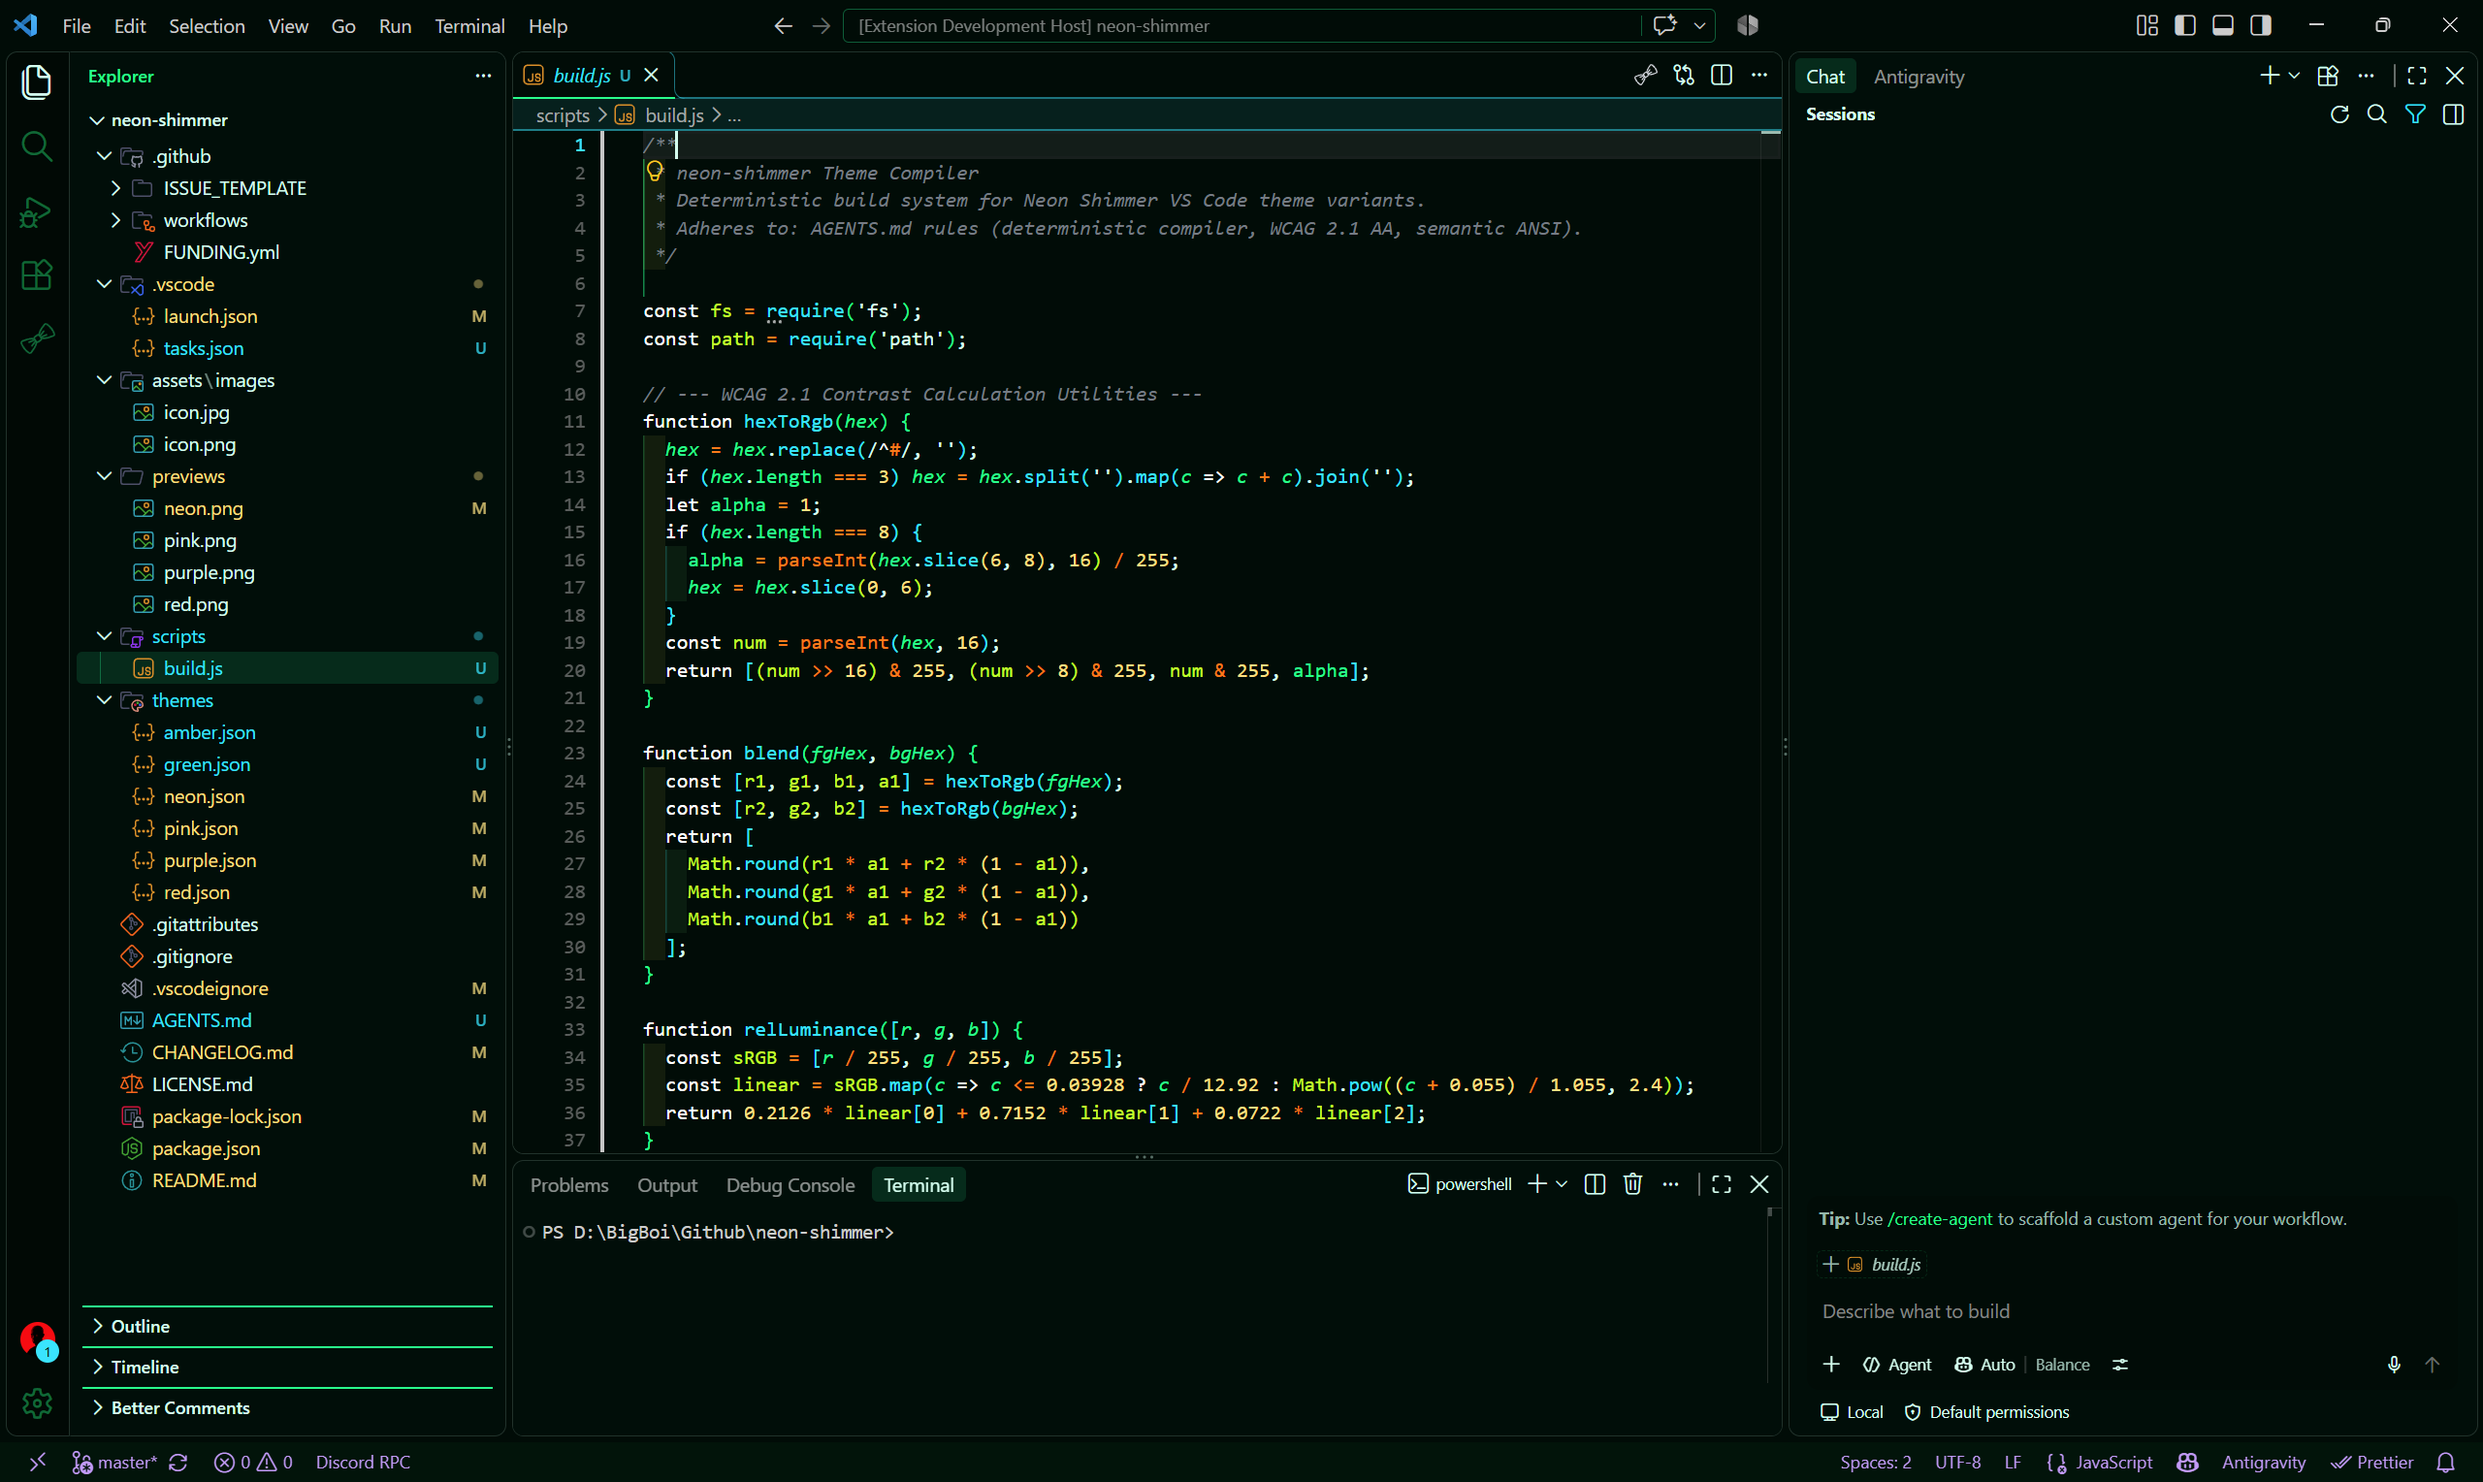
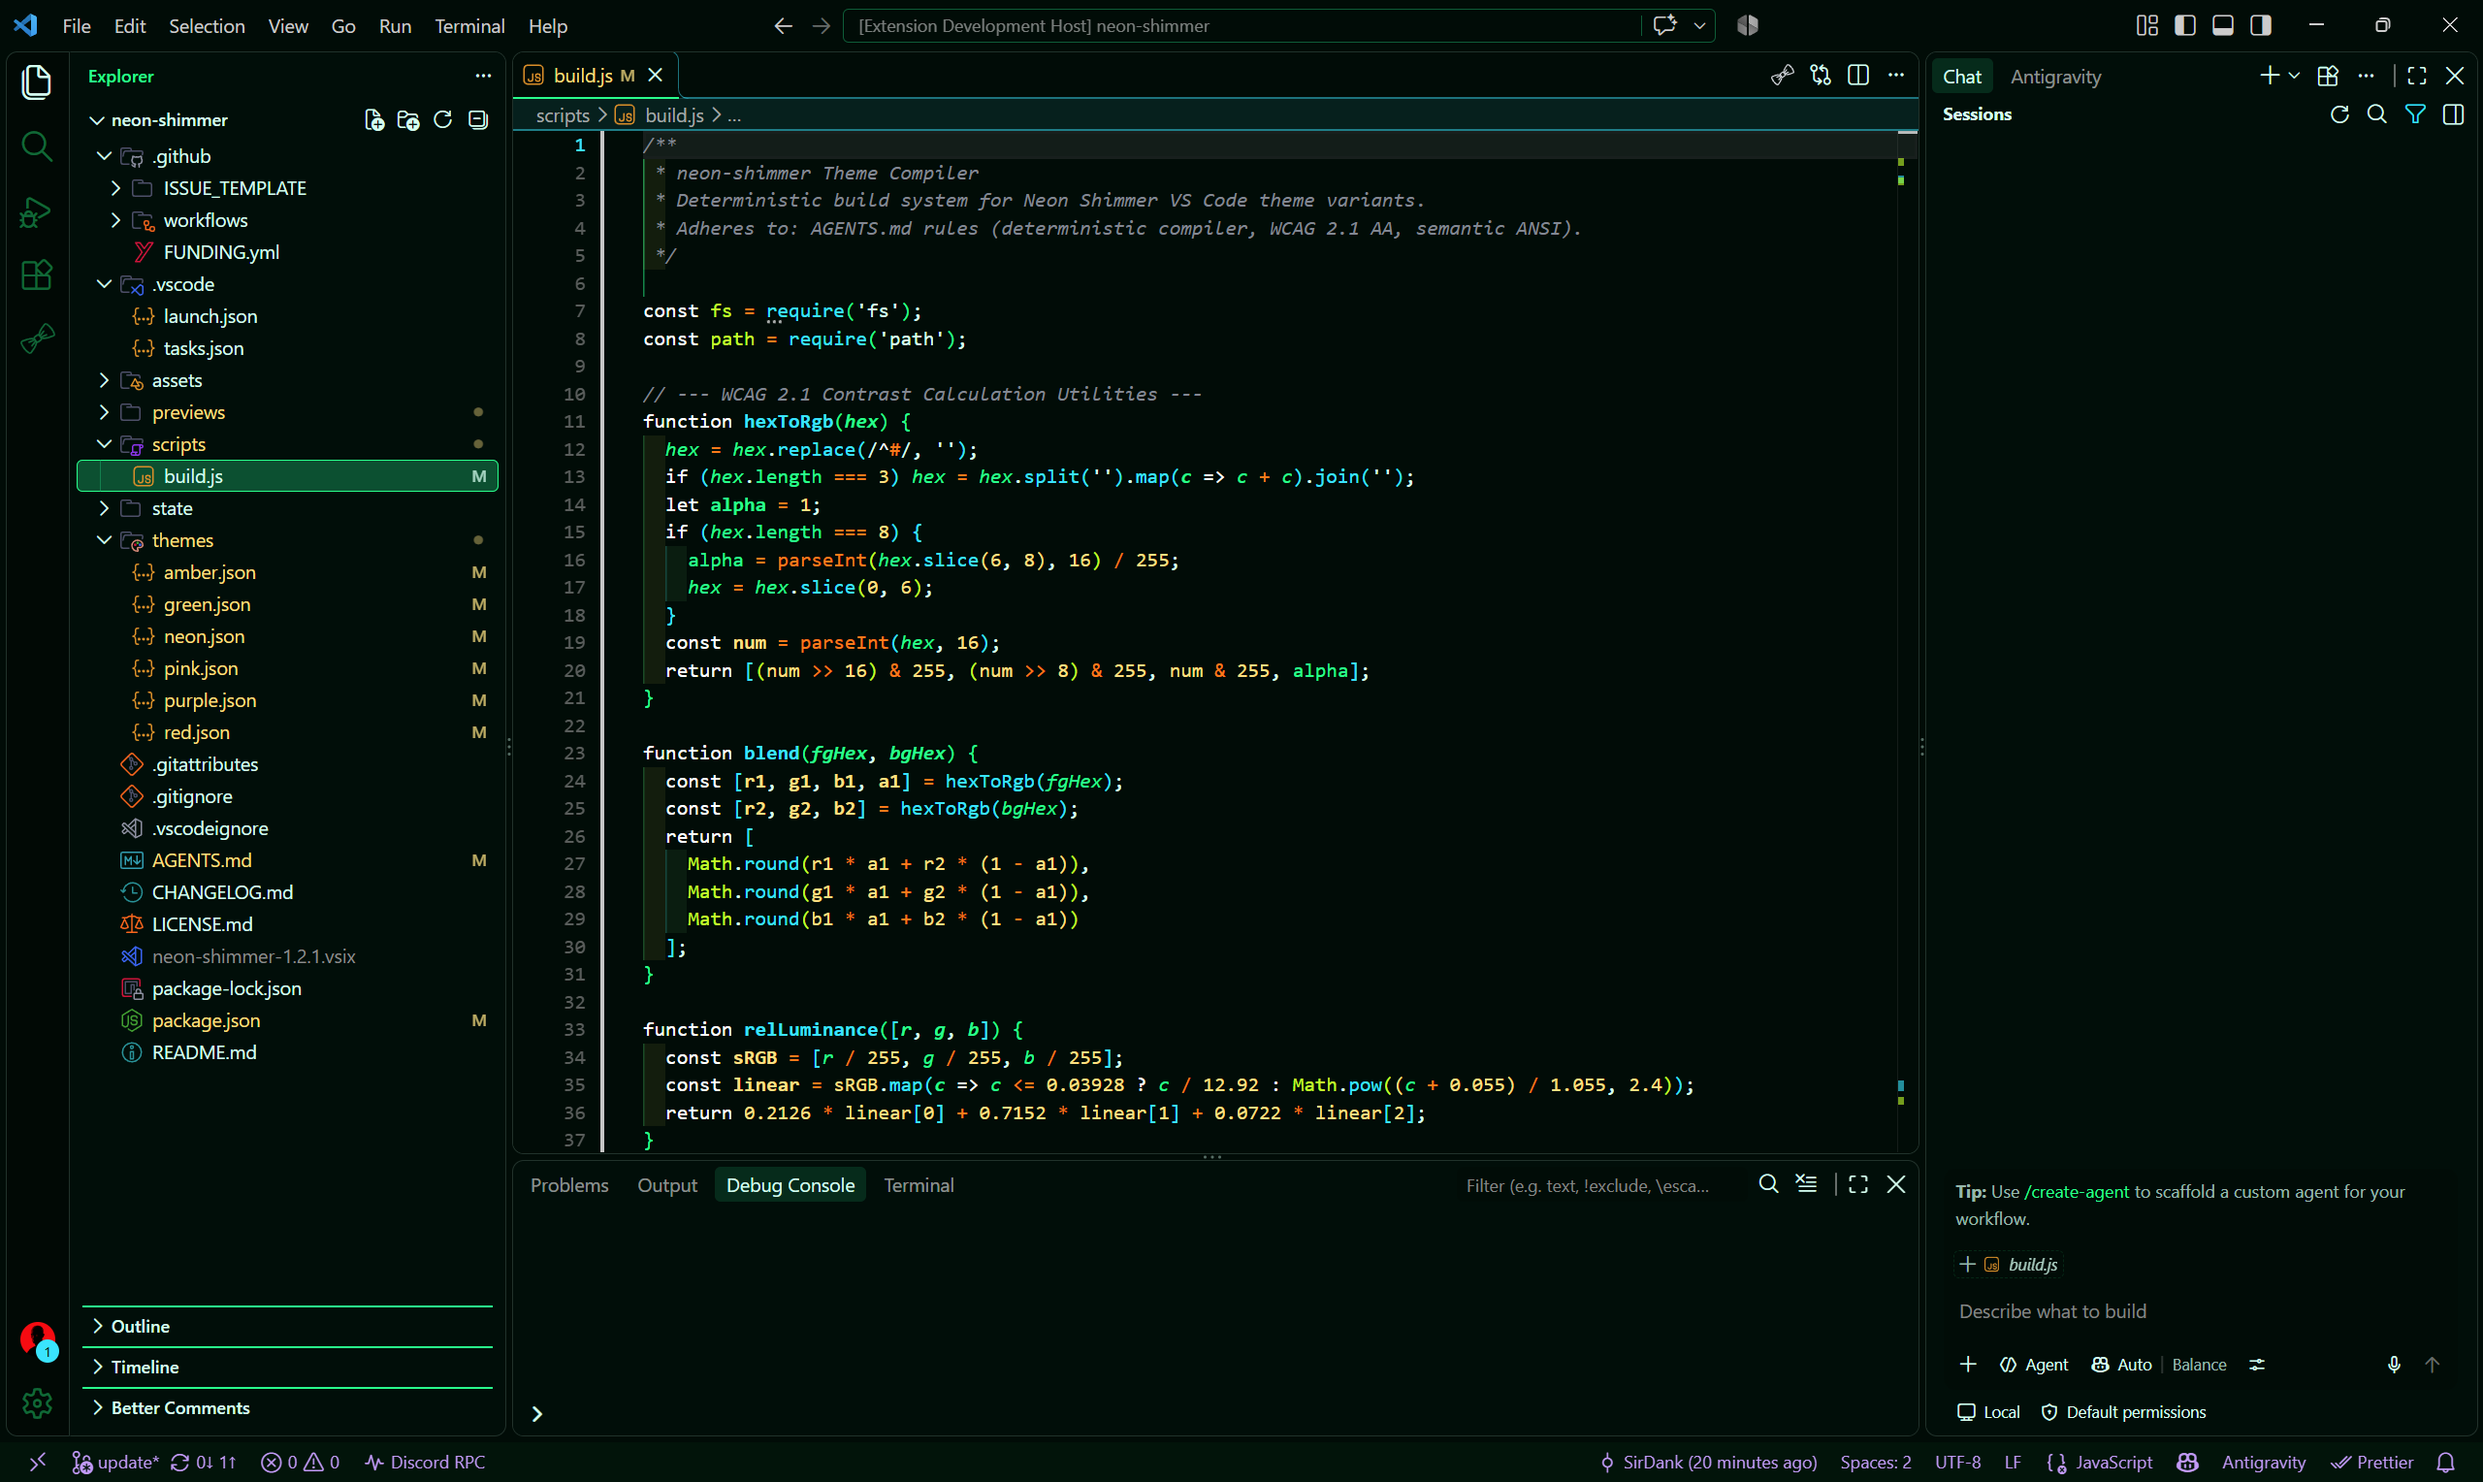
Expand theme support for modern VS Code
Add schema declarations, semantic token mappings, modern diff and window colors, and marketplace metadata across the theme suite. Refresh the theme previews.

diff --git a/scripts/build.js b/scripts/build.js
@@ -91,6 +91,7 @@ function getModernSurfaces(palette) {
   const type = palette.slots.type;
   const fn = palette.slots.function;
   const op = palette.slots.operator;
+  const comment = palette.slots.comment;
   const brackets = palette.brackets;
 
   return {
@@ -141,10 +142,19 @@ function getModernSurfaces(palette) {
     'sideBarStickyScroll.border': sideBarBorder,
     'sideBarStickyScroll.shadow': withAlpha(bg, '80'),
 
-    // multiDiffEditor (VS Code 1.86+)
+    // multiDiffEditor & modern diff regions (VS Code 1.86+)
     'multiDiffEditor.headerBackground': sideBarBg,
     'multiDiffEditor.background': bg,
     'multiDiffEditor.border': sideBarBorder,
+    'diffEditor.unchangedRegionBackground': sideBarBg,
+    'diffEditor.unchangedRegionForeground': comment,
+    'diffEditor.unchangedCodeBackground': bg,
+
+    // Window borders & Profile badge (VS Code 1.75+)
+    'window.activeBorder': withAlpha(border, '80'),
+    'window.inactiveBorder': withAlpha(border, '33'),
+    'profileBadge.background': actBadgeBg,
+    'profileBadge.foreground': '#ffffff',
 
     // symbolIcon suite (Breadcrumbs, Quick Pick, Autocomplete)
     'symbolIcon.arrayForeground': constant,
@@ -2805,11 +2815,17 @@ function buildVariant(variantId) {
   const palette = PALETTES[variantId];
   if (!palette) throw new Error('Unknown variant: ' + variantId);
 
-  // 1. Semantic Token Colors
+  // 1. Semantic Token Colors (Official VS Code Semantic Highlighting best practices)
   const semanticTokenColors = {
     enumMember: { foreground: palette.slots.operator },
     'variable.constant': { foreground: palette.slots.constant },
-    'variable.defaultLibrary': { foreground: palette.slots.type }
+    'variable.defaultLibrary': { foreground: palette.slots.type },
+    'variable.readonly': { foreground: palette.slots.constant },
+    'property.readonly': { foreground: palette.slots.constant },
+    parameter: { foreground: palette.slots.primaryVar, italic: true },
+    typeParameter: { foreground: palette.slots.type, italic: true },
+    concept: { foreground: palette.slots.type },
+    '*.declaration': { bold: true }
   };
 
   // 2. TextMate Token Colors
@@ -2848,6 +2864,7 @@ function buildVariant(variantId) {
   Object.assign(colors, modern);
 
   return {
+    $schema: 'vscode://schemas/color-theme',
     name: palette.name,
     type: 'dark',
     semanticHighlighting: true,

diff --git a/AGENTS.md b/AGENTS.md
@@ -37,3 +37,9 @@ This repository maintains the **Neon Shimmer** theme suite for VS Code. All agen
 ## 5. Clean Repository Paths & Zero PII
 - **Never** embed absolute local file paths, machine-specific paths, usernames, or PII into repository source files, scripts, comments, or generated outputs.
 - Always use relative paths from the workspace root (e.g. `themes/`, `scripts/`, `assets/`).
+
+## 6. Official VS Code Theme Best Practices
+- **JSON Schema Validation**: Every generated theme JSON must declare `"$schema": "vscode://schemas/color-theme"`.
+- **Workspace Trust**: Declare `"capabilities": { "untrustedWorkspaces": { "supported": true } }` in `package.json` so themes function safely in Restricted Mode without trust prompts.
+- **Semantic Highlighting**: Maintain symbol-aware semantic tokens (`parameter`, `variable.readonly`, `property.readonly`, `typeParameter`, `concept`, `"*.declaration"`) complementing TextMate rules without jarring color clashes.
+- **Marketplace Metadata**: Maintain `galleryBanner`, `bugs`, `homepage`, and `qna` in `package.json` for professional extension presentation.
